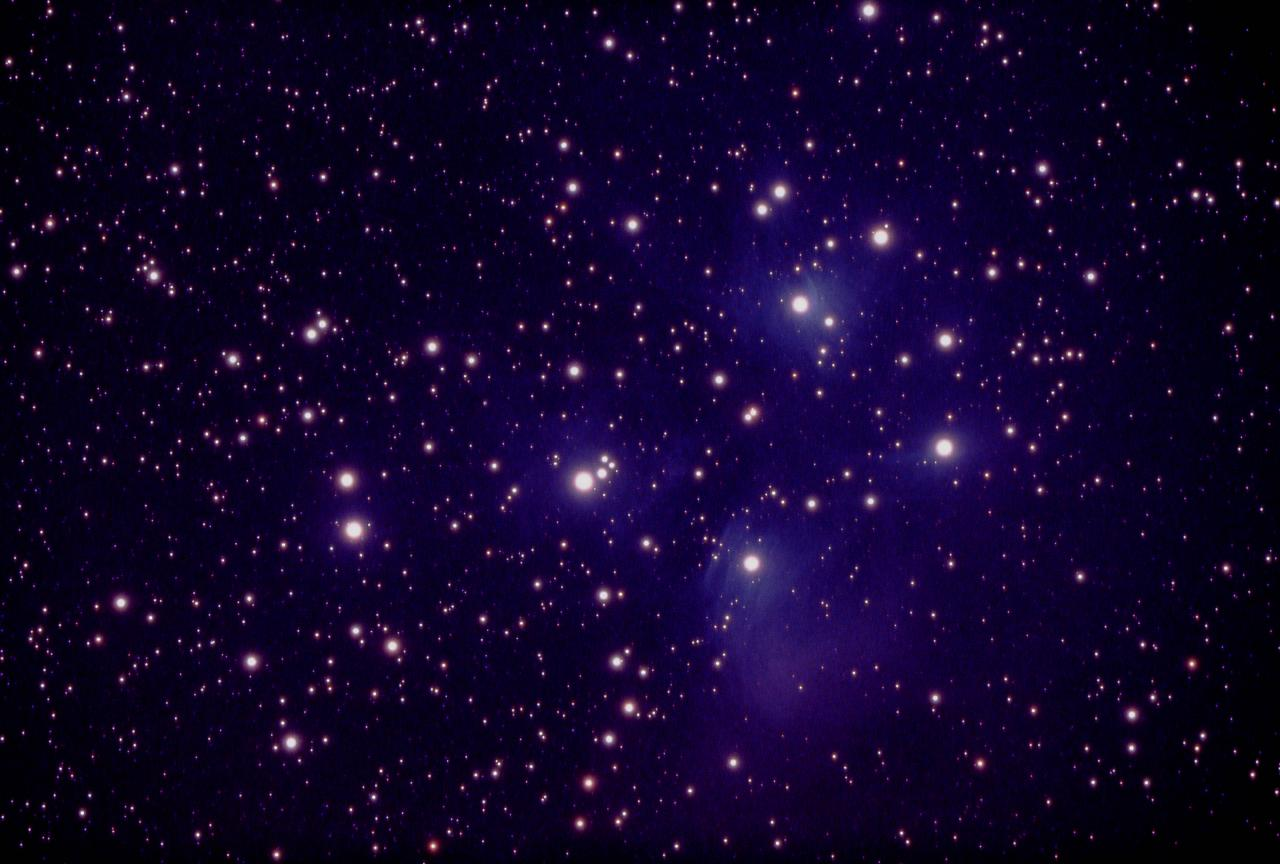
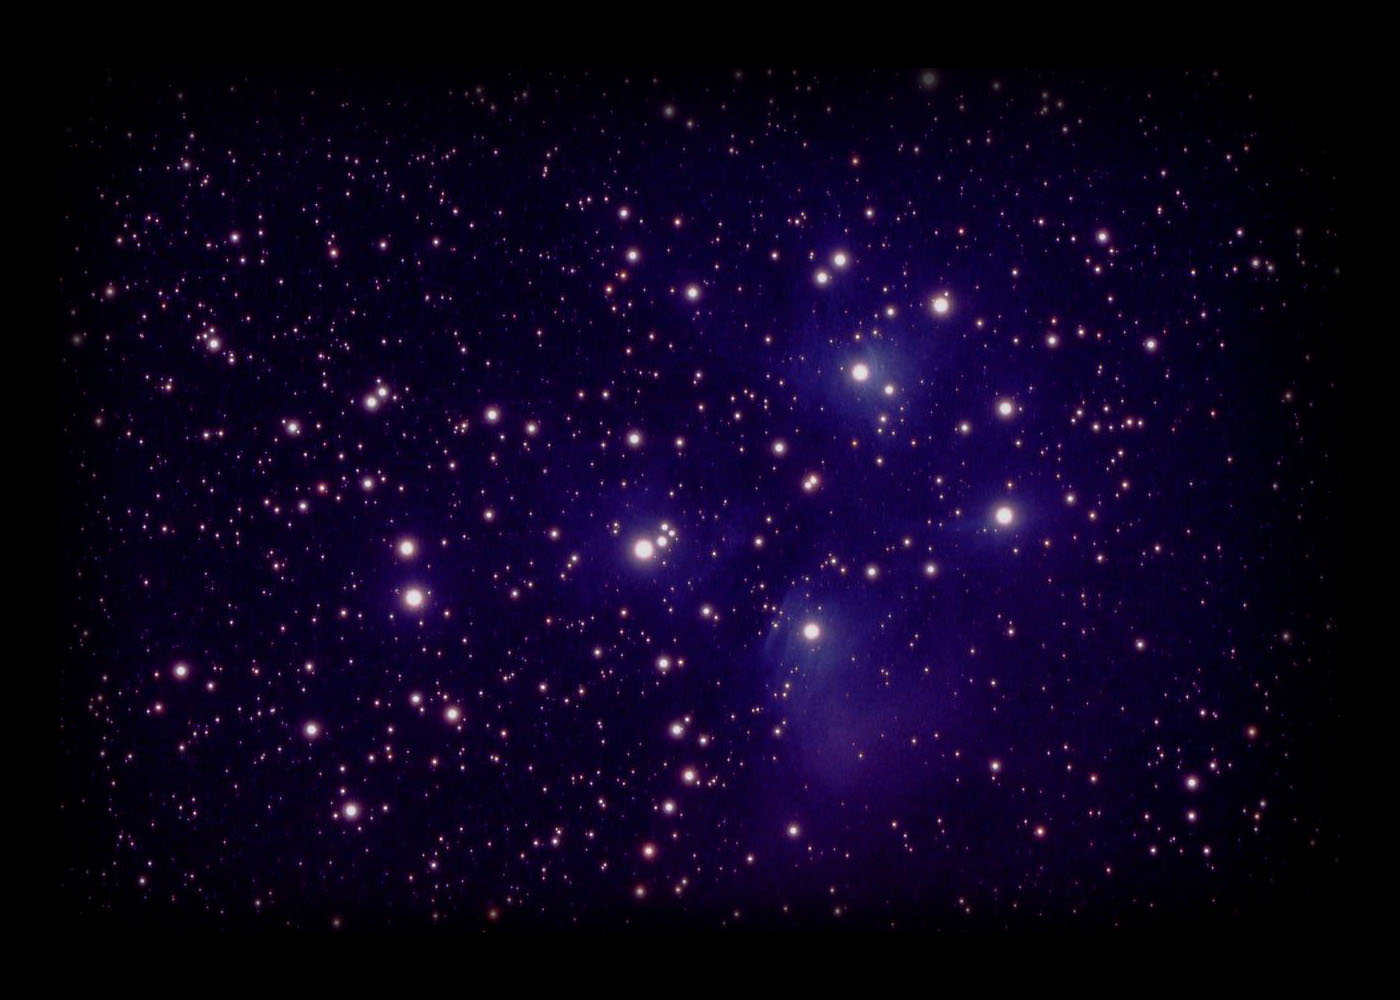
Hintergrundfarbe für MainView schwarz, Hintergrundbild mit Farbverlauf nach schwarz

diff --git a/projekt/src/main/java/severeLobster/frontend/view/MainView.java b/projekt/src/main/java/severeLobster/frontend/view/MainView.java
@@ -108,8 +108,13 @@ public class MainView extends JPanel {
 
     @Override
     public void paintComponent(Graphics g) {
+        g.setColor(Color.BLACK);
+        g.fillRect(0, 0, getWidth(), getHeight());
+        g.setColor(getForeground());
+
         Image sImage = getToolkit().getImage(
                 resourceManager.getGraphicURL("sternenhimmel.jpg"));
+
         g.drawImage(sImage, 0, 0, this);
     }
 
